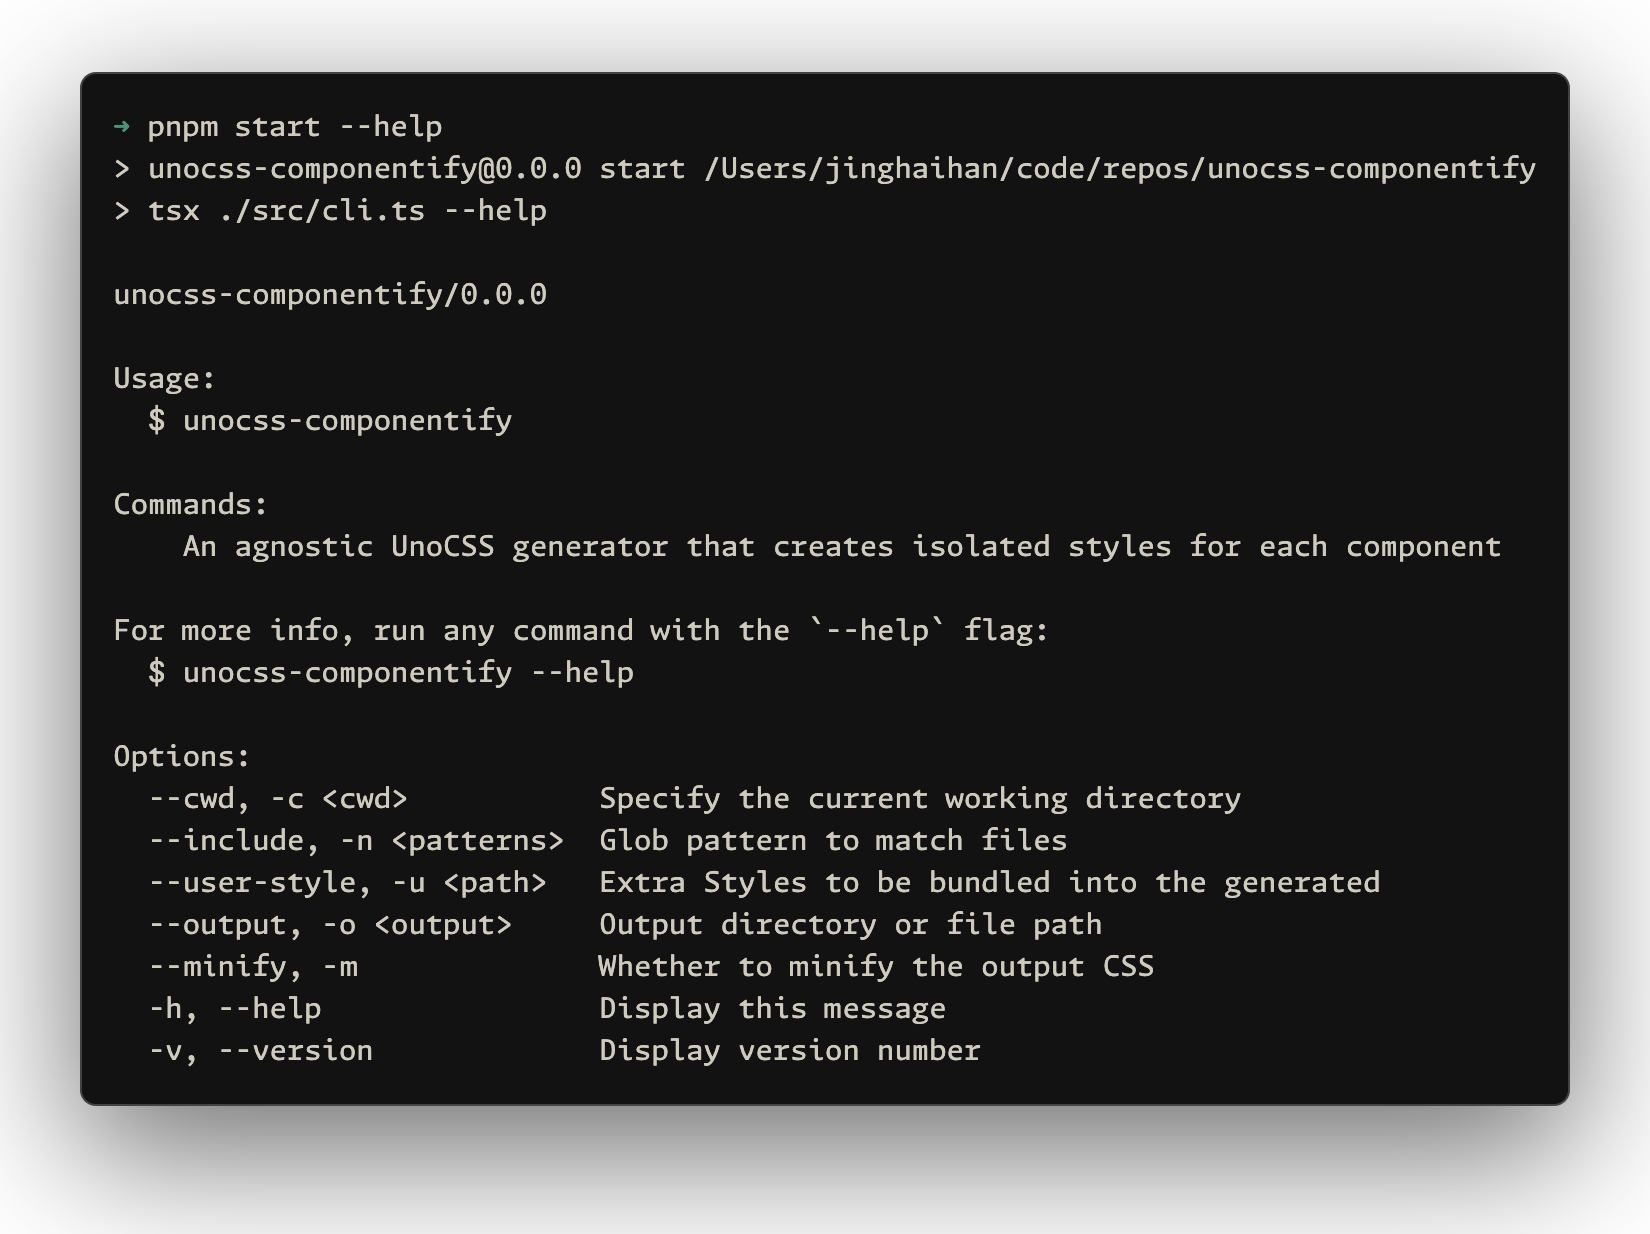
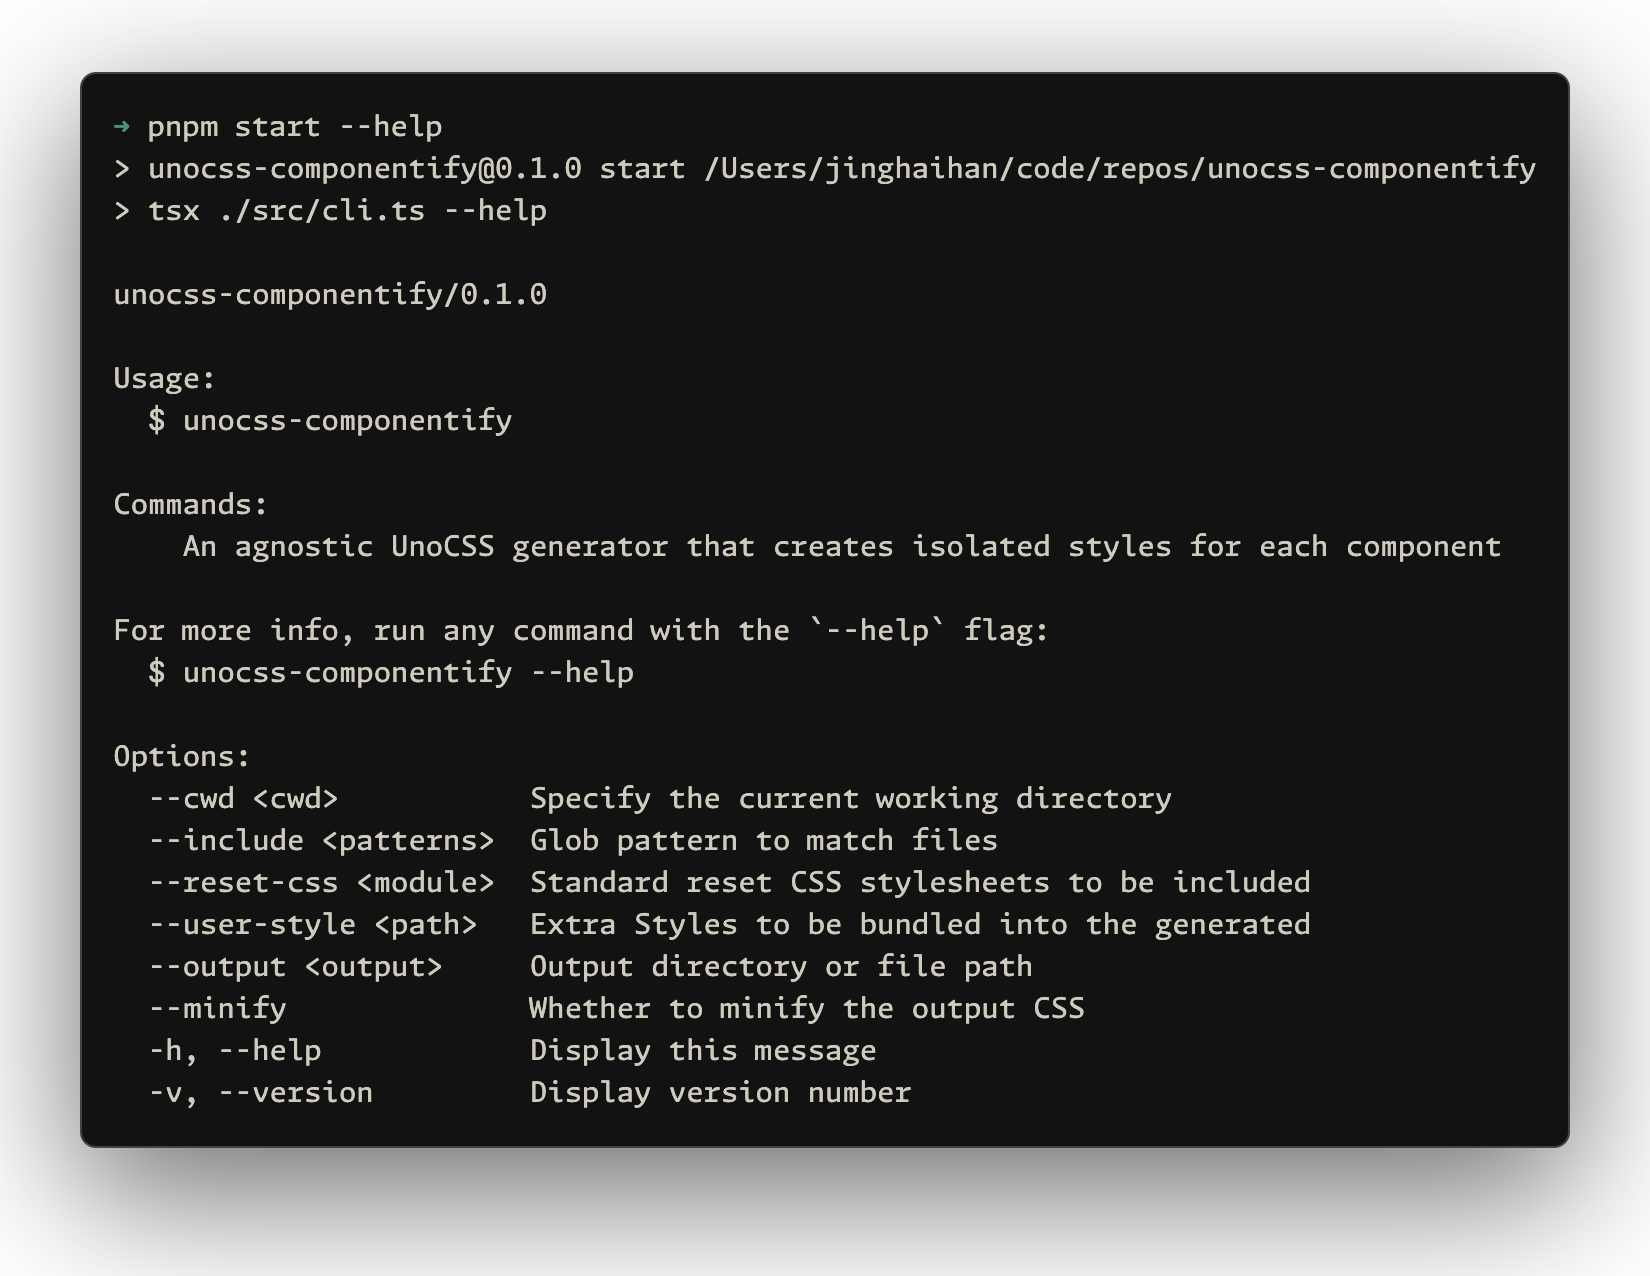
feat: support custom reset css

diff --git a/src/builder.ts b/src/builder.ts
@@ -11,7 +11,7 @@ import { basename, extname, join } from 'pathe'
 import { glob } from 'tinyglobby'
 import { createGenerator, toArray } from 'unocss'
 import { readUnoConfig, resolveConfig } from './config'
-import { DEFAULT_OUTPUT } from './constants'
+import { DEFAULT_OUTPUT, DEFAULT_RESET } from './constants'
 import { isDirectory, normalizeOutput } from './utils'
 
 const cache = new Map<string, string>()
@@ -32,14 +32,16 @@ async function createUnoGenerator({ options, userCSS }: {
   return generator
 }
 
-async function readResetCSS(): Promise<string> {
-  if (cache.has('@unocss/reset/tailwind.css'))
-    return cache.get('@unocss/reset/tailwind.css')!
+async function readResetCSS(options: Options): Promise<string> {
+  const { resetCSS = DEFAULT_RESET } = options
 
-  const resetCSS = await readFile(resolveModulePath('@unocss/reset/tailwind.css'), 'utf-8')
-  cache.set('@unocss/reset/tailwind.css', resetCSS)
+  if (cache.has(resetCSS))
+    return cache.get(resetCSS)!
 
-  return resetCSS
+  const content = await readFile(resolveModulePath(resetCSS), 'utf-8')
+  cache.set(resetCSS, content)
+
+  return content
 }
 
 async function generateCSS({ options, generator, userCSS, tokens }: {
@@ -52,7 +54,7 @@ async function generateCSS({ options, generator, userCSS, tokens }: {
   const unoResult = await generator.generate(tokens)
 
   // Compose the CSS
-  const resetCSS = await readResetCSS()
+  const resetCSS = await readResetCSS(options)
   const input = [
     resetCSS,
     userCSS?.toString() ?? '',

diff --git a/src/cli.ts b/src/cli.ts
@@ -13,11 +13,12 @@ try {
 
   cli
     .command('', 'An agnostic UnoCSS generator that creates isolated styles for each component')
-    .option('--cwd, -c <cwd>', 'Specify the current working directory')
-    .option('--include, -n <patterns>', 'Glob pattern to match files')
-    .option('--user-style, -u <path>', 'Extra Styles to be bundled into the generated')
-    .option('--output, -o <output>', 'Output directory or file path')
-    .option('--minify, -m', 'Whether to minify the output CSS')
+    .option('--cwd <cwd>', 'Specify the current working directory')
+    .option('--include <patterns>', 'Glob pattern to match files')
+    .option('--reset-css <module>', 'Standard reset CSS stylesheets to be included')
+    .option('--user-style <path>', 'Extra Styles to be bundled into the generated')
+    .option('--output <output>', 'Output directory or file path')
+    .option('--minify', 'Whether to minify the output CSS')
     .allowUnknownOptions()
     .action(async (options: Partial<CommandOptions>) => {
       p.intro(`${c.yellow`${NAME} `}${c.dim`v${VERSION}`}`)

diff --git a/src/constants.ts b/src/constants.ts
@@ -5,9 +5,11 @@ export const NAME = pkg.name
 
 export const VERSION = pkg.version
 
+export const DEFAULT_RESET = '@unocss/reset/tailwind.css'
 export const DEFAULT_OUTPUT = 'src/.generated/css.ts'
 
 export const DEFAULT_OPTIONS: Partial<Options> = {
+  resetCSS: DEFAULT_RESET,
   output: DEFAULT_OUTPUT,
   minify: true,
 }

diff --git a/src/types.ts b/src/types.ts
@@ -7,6 +7,11 @@ export interface CommandOptions {
    */
   include?: string | string[]
   /**
+   * Standard reset CSS stylesheets to be included
+   * https://unocss.dev/guide/style-reset
+   */
+  resetCSS?: string
+  /**
    * Extra Styles to be bundled into the generated
    */
   userStyle?: string

diff --git a/README.md b/README.md
@@ -30,13 +30,12 @@ pnpm unocss-componentify --include './src/components/**/*.vue' --output 'src/.ge
 
 ### CLI Options
 
-| Option | Alias | Description | Default |
-|--------|-------|-------------|---------|
-| `--cwd` | `-c` | Specify the current working directory | `process.cwd()` |
-| `--include` | `-n` | Glob pattern to match files | - |
-| `--user-style` | `-u` | Extra styles to be bundled into the generated CSS | - |
-| `--output` | `-o` | Output directory or file path | `src/.generated/css.ts` |
-| `--minify` | `-m` | Whether to minify the output CSS | `true` |
+- `--cwd` - Specify the current working directory (default: `process.cwd()`)
+- `--include` - Glob pattern to match files
+- `--reset-css` - Standard reset CSS stylesheets to be included (default: `@unocss/reset/tailwind.css`)
+- `--user-style` - Extra styles to be bundled into the generated CSS
+- `--output` - Output directory or file path (default: `src/.generated/css.ts`)
+- `--minify` - Whether to minify the output CSS (default: `true`)
 
 ## Configuration
 
